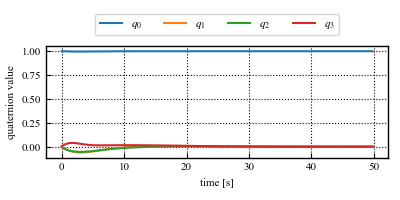
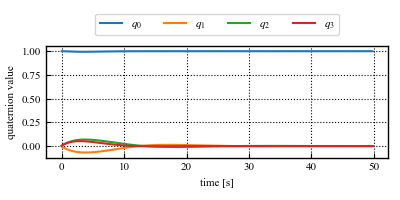
UPDATE: change reward

Changed region(s): [[0.03, 0.69, 0.96, 0.78], [0.03, 0.6, 0.96, 0.66], [0.18, 0.24, 0.27, 0.27]]

diff --git a/td3/environment.py b/td3/environment.py
@@ -147,7 +147,7 @@ class SatelliteContinuousEnv(gym.Env):
         #報酬パラメータ
         self.q_weight =  1*8#1*20
         self.w_weight = 1.5*10#1.5*100
-        self.action_weight = 0.25*2#0.25*10
+        self.action_weight = 0.25*1#0.25*10
         
         # 初期状態 角度(deg)　角速度(rad/s)
         # Rest to Rest
@@ -279,7 +279,7 @@ class SatelliteContinuousEnv(gym.Env):
         #--------REWARD---------
         if not done:
             if max(abs(action)) > self.max_torque:
-                reward = -(self.q_weight*((1-qe_new[0])**2 + qe_new[1:]@qe_new[1:]) + self.w_weight*omega_new@omega_new + 10*action@action) 
+                reward = -(self.q_weight*((1-qe_new[0])**2 + qe_new[1:]@qe_new[1:]) + self.w_weight*omega_new@omega_new + 5*action@action) 
             else:
                 #状態と入力を抑えたい
                 reward = -(self.q_weight*((1-qe_new[0])**2 + qe_new[1:]@qe_new[1:]) + self.w_weight*omega_new@omega_new + self.action_weight*action@action) 
